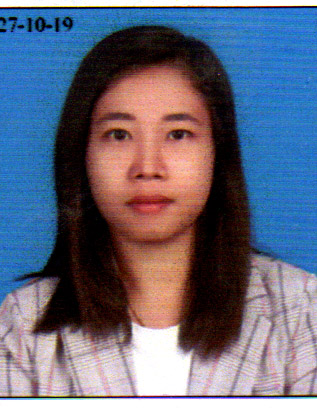
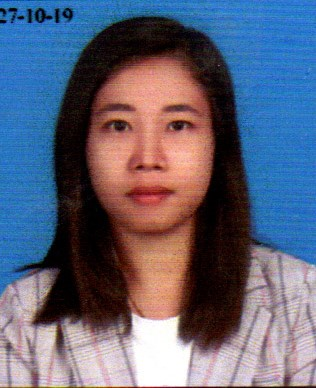
edited about and contact page.

diff --git a/about.html b/about.html
@@ -43,6 +43,11 @@
 			top: 100%;
 		}
 
+		.card_style{
+			height: 348px;
+			width: 348px;
+		}
+
 	</style>
 </head>
 <body>
@@ -136,7 +141,7 @@
 			<!-- about mi mi ko start -->
 			<div class="col-md-6 col-lg-4 my-4">
 				<div class="card h-100">
-					<img src="images/profile_mmk.jpg" class="card-img-top">
+					<img src="images/profile_mmk.jpg" class="card-img-top card_style">
 					<div class="card-body">
 						<h3 class="my-4 text-primary">Mi Mi Ko</h3>
 						<p class="p_style font-weight-bold">Hi guys!My name is Mi Mi Ko and I am graduated from Technological University (Monywa).My major is Information Technology.I am currently working together with members of Big Drop Studio for this website.</p>

diff --git a/contact.html b/contact.html
@@ -69,7 +69,7 @@
 			<!-- contact end -->
 
 			<!-- form start -->
-			<div class="col-md-6 offset-sm-3 offset-md-0 col-sm-4">
+			<div class="col-md-6">
 				<h3 class="text-center text-info my-5 ">Keep In Touch With Us</h3>
 				<form class="w-100"> 
 					<div class="form-group">
